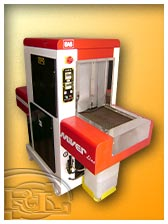
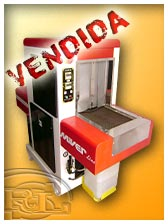
Renamed: SW-7129 table images. Minor tweaks. Sold: LAUR-60, BDF HS-30

Changed region(s): [[0.0, 0.0, 0.8036, 0.4375]]

diff --git a/maquinas/coser/maqNu_maquina-coser-de-brazo_SEWMAQ_SW-7129.htm b/maquinas/coser/maqNu_maquina-coser-de-brazo_SEWMAQ_SW-7129.htm
@@ -186,14 +186,14 @@ counter++;
           <th colspan="4" bgcolor="#FFFFFF"><h4>DESCRIPCIÓN DE LA MÁQUINA</h4></th>
         </tr>
         <tr>
-       		<td colspan="4"><p><span class="boldText">RaLoS</span> dispone una máquina de coser de brazo <span class="boldText">SEWMAQ &quot;SW&#8209;7129&quot;</span> nueva, con volante frontal y motor controlado electronicamente para un un control más cómodo y eficaz, todo especialmente pensado para llevar a cabo cualquier tipo de arreglo  que pueda requerir el zapato.</p></td>
+       		<td colspan="4"><p><span class="boldText">RaLoS</span> dispone una máquina de coser de brazo <span class="boldText">SEWMAQ &quot;SW&#8209;7129&quot;</span> nueva, <span class="uText">ahora</span> con volante frontal, controlador de puntada, hueco en mesa (para cañas de bota, etc.) y motor controlado electronicamente para un control más cómodo y eficaz, todo especialmente pensado para llevar a cabo cualquier tipo de arreglo  que pueda requerir el zapato.</p></td>
         </tr>
         <tr bgcolor="#FFFFFF">
           <th colspan="4"><h4>CARACTERÍSTICAS TÉCNICAS</h4></th>
         </tr>
         <tr>
           <td width="50%" colspan="2"><span class="boldText">Conex. Eléctrica: </span>220 V (1Φ) - 50 Hz</td>
-          <td width="50%" colspan="2"><span class="boldText">Altura Máxima Permitida</span> 10,5 mm</td>
+          <td width="50%" colspan="2"><span class="boldText">Altura Máxima Permitida:</span> 10,5 mm</td>
         </tr>
         <tr>
           <td width="50%" colspan="2"><span class="boldText">Potencia Instalada:</span> 0,25 kW (Aprox.)</td>
@@ -212,12 +212,12 @@ counter++;
         	<td width="100%" colspan="4">
             <table width="100%" border="0" cellspacing="4" style="border:none" summary="SEWMAQ SW-7129 (Información Detallada)"><caption></caption>
               <tr>
-          			<td align="center" valign="middle"><img src="maqNu_maquina-coser-de-brazo_SEWMAQ_SW-7129_5-1.png" /></td>
-          			<td align="center" valign="middle"><img src="maqNu_maquina-coser-de-brazo_SEWMAQ_SW-7129_5-2.png" /></td>
-          			<td align="center" valign="middle"><img src="maqNu_maquina-coser-de-brazo_SEWMAQ_SW-7129_5-3.png" /></td>
-          			<td align="center" valign="middle"><img src="maqNu_maquina-coser-de-brazo_SEWMAQ_SW-7129_5-4.png" /></td>
-          			<td align="center" valign="middle"><img src="maqNu_maquina-coser-de-brazo_SEWMAQ_SW-7129_5-5.png" /></td>
-          			<td align="center" valign="middle"><img src="maqNu_maquina-coser-de-brazo_SEWMAQ_SW-7129_5-6.png" /></td>
+          			<td align="center" valign="middle"><img src="maqNu_maquina-coser-de-brazo_SEWMAQ_SW-7129_a1.png" /></td>
+          			<td align="center" valign="middle"><img src="maqNu_maquina-coser-de-brazo_SEWMAQ_SW-7129_a2.png" /></td>
+          			<td align="center" valign="middle"><img src="maqNu_maquina-coser-de-brazo_SEWMAQ_SW-7129_a3.png" /></td>
+          			<td align="center" valign="middle"><img src="maqNu_maquina-coser-de-brazo_SEWMAQ_SW-7129_a4.png" /></td>
+          			<td align="center" valign="middle"><img src="maqNu_maquina-coser-de-brazo_SEWMAQ_SW-7129_a5.png" /></td>
+          			<td align="center" valign="middle"><img src="maqNu_maquina-coser-de-brazo_SEWMAQ_SW-7129_a6.png" /></td>
               </tr>
               <tr height="32">
           			<td align="center" valign="middle"><span class="boldText">x1</span></td>
@@ -225,7 +225,7 @@ counter++;
           			<td align="center" valign="middle"><span class="boldText">DPx17:14</span></td>
           			<td align="center" valign="middle"><span class="boldText">10,5 mm</span></td>
           			<td align="center" valign="middle"><span class="boldText">7 mm</span></td>
-          			<td align="center" valign="middle"><img src="maqNu_maquina-coser-de-brazo_SEWMAQ_SW-7129_5-6a.png" style="width:28px; height:28px; min-width: 28px; min-height: 28px;" /></td>
+          			<td align="center" valign="middle"><img src="maqNu_maquina-coser-de-brazo_SEWMAQ_SW-7129_a6a.png" style="width:28px; height:28px; min-width: 28px; min-height: 28px;" /></td>
               </tr>
             </table>
           </td>
@@ -235,7 +235,7 @@ counter++;
           <th colspan="4"><h4>CARACTERÍSTICAS DE TRABAJO</h4></th>
         </tr>
 				<tr>
-       		<td colspan="4" align="center"><p>Máquina de coser para reparación de calzado de base cilíndrica, de accionamiento a pedal y bobina normal. La <span class="boldText">SW-7129</span> Puede coser materiales extra gruesos (cuero, caucho, plástico, lona), sobre por ejemplo: zapatos, botas, bolsos, guantes o cualquier material cilíndrico, y es adecuada tanto para industrias de fabricación de zapatos como para zapateros independientes.</p></td>
+       		<td colspan="4" align="center"><p>Máquina de coser para reparación de calzado de base cilíndrica, accionamiento a pedal y bobina normal. La <span class="boldText">SW-7129</span> puede coser materiales extra gruesos (cuero, caucho, plástico, lona), sobre por ejemplo: zapatos, botas, bolsos, guantes o cualquier material cilíndrico, y es adecuada tanto para industrias de fabricación de zapatos como para zapateros independientes.</p></td>
         </tr>
 
         <tr id="rowInfoHead">

diff --git a/maquinas/moldear/maqUs_moldear-palas-de-bota_TRAP_T-30-B.htm b/maquinas/moldear/maqUs_moldear-palas-de-bota_TRAP_T-30-B.htm
@@ -128,7 +128,7 @@ counter++;
           <th colspan="4" bgcolor="#FFFFFF"><h4>DESCRIPCIÓN DE LA MÁQUINA</h4></th>
         </tr>
         <tr>
-       		<td colspan="4"><p><span class="boldText">RaLoS</span> <span class="lThrought">dispone</span> de una máquina de moldear palas de bota <span class="boldText">&quot;TRAP T-30-B&quot;</span> con sistema neumático, de segunda mano, totalmente restaurada y lista para trabajar.</p>
+       		<td colspan="4"><p><span class="boldText">RaLoS</span> dispone de una máquina de moldear palas de bota <span class="boldText">&quot;TRAP T-30-B&quot;</span> con sistema neumático, de segunda mano, totalmente restaurada y lista para trabajar.</p>
 <p>Esta máquina esta diseñada especialmente para resolver los problemas de quiebre, tanto en botas como en mocasines, evitando el clásico corte, de otra forma necesario, para acoplar el corte a la horma.</p></td>
         </tr>
         <tr bgcolor="#FFFFFF">
@@ -143,7 +143,7 @@ counter++;
           <td width="50%" colspan="2"><span class="boldText">Peso (Neto):</span> N/D</td>
         </tr>
         <tr>
-          <td width="50%" colspan="2"><span class="boldText">Presión de Trabajo : </span>6/8 Kg/cm<sup>2</sup></td>
+          <td width="50%" colspan="2"><span class="boldText">Presión de Trabajo: </span>6/8 Kg/cm<sup>2</sup></td>
           <td width="50%" colspan="2"><span class="boldText">Producción (Aprox.):</span>  1.000/1.500 pares/8h</td>
         </tr>
         <tr bgcolor="#FFFFFF">
@@ -161,7 +161,7 @@ counter++;
         </tr>
 
         <tr id="rowInfo">
-          <td width="25%" class="boldText">No disponible</td>
+          <td width="25%" class="boldText"><a href="http://www.ralosmaquinaria.com/mainFrameContact.htm?Disponibilidad+Maquina+para+Moldear+Palas+de+Bota&amp;'TRAP+T-30-B'&amp;(OCASION)#formContainer" title="Ir al Formulario de Consulta" target="_self" class="boldText">Consultar</a></td>
           <td width="50%" colspan="2">Restaurada</td>
         <!--<td width="50%" colspan="2">Máquina revisada en nuestro taller.</td>-->
           <td width="25%"><a href="http://www.ralosmaquinaria.com/mainFrameContact.htm?Maquina+para+Moldear+Palas+de+Bota&'TRAP+T-30-B'&(OCASION)#formContainer" title="Ir al Formulario de Consulta" target="_self" class="boldText">Consultar</a></td>

diff --git a/index.htm b/index.htm
@@ -455,15 +455,6 @@ div .mainFooterContent {
         </li>
 
         <li>
-					<div class="liContainer"><a href="maquinas/hornos/maqUs_hornoAcondicionador_BDF_HS-30.htm" target="mainFrame" title="Ver Horno Acondicionador BDF &quot;HS-30&quot;">
-            <img class="outerImg" alt="" src="images/_mac_vOuterFrame_mTn.png"/>
-            <img class="vInnerImg" alt="Horno Acondicionador BDF &quot;HS-30&quot;" src="maquinas/hornos/maqUs_hornoAcondicionador_BDF_HS-30_01mTn.jpg"/>
-            <img class="spanPosFix" alt="" src="images/_mac_vOuterFrameFix_mTn.gif"/>
-            <span>Horno Acondicionador BDF &quot;HS&#8209;30&quot;</span></a>
-					</div>
-				</li>
-
-        <li>
 					<div class="liContainer"><a href="maquinas/hornos/maqUs_horno-acondicionador-calzado_EAS_60-F.htm" target="mainFrame" title="Ver Horno Acondicionador EAS &quot;60-F&quot;">
             <img class="outerImg" alt="" src="images/_mac_hOuterFrame_mTn.png"/>
             <img class="hInnerImg" alt="Horno Acondicionador EAS &quot;60-F&quot;" src="maquinas/hornos/maqUs_horno-acondicionador-calzado_EAS_60-F_1m-h.jpg"/>
@@ -478,15 +469,6 @@ div .mainFooterContent {
             <img class="hInnerImg" alt="Horno Acondicionador EAS &quot;HC-4C&quot;" src="maquinas/hornos/maqUs_horno-acondicionador-calzado_EAS_HC-4C_01mTn.jpg"/>
             <img class="spanPosFix" alt="" src="images/_mac_hOuterFrameFix_mTn.gif"/>
             <span>Horno Acondicionador EAS &quot;HC&#8209;4C&quot;</span></a>
-					</div>
-				</li>
-
-        <li>
-					<div class="liContainer"><a href="maquinas/hornos/maqUs_horno-acondicionador-calzado_EAS_LAUR-60.htm" target="mainFrame" title="Ver Horno Acondicionador EAS &quot;LAUR-60&quot;">
-            <img class="outerImg" alt="" src="images/_mac_vOuterFrame_mTn.png"/>
-            <img class="vInnerImg" alt="Horno Acondicionador EAS &quot;LAUR-60&quot;" src="maquinas/hornos/maqUs_horno-acondicionador-calzado_EAS_LAUR-60_1m-v.jpg"/>
-            <img class="spanPosFix" alt="" src="images/_mac_vOuterFrameFix_mTn.gif"/>
-            <span>Horno Acondicionador EAS &quot;LAUR&#8209;60&quot;</span></a>
 					</div>
 				</li>
 

diff --git a/maquinas/hornos/maqUs_horno-acondicionador-calzado_EAS_HC-4C.htm b/maquinas/hornos/maqUs_horno-acondicionador-calzado_EAS_HC-4C.htm
@@ -154,11 +154,11 @@ counter++;
         </tr>
         <tr>
           <td width="50%" colspan="2"><span class="boldText">Conex. Eléctrica: </span>380 V - 50/60 Hz</td>
-          <td width="50%" colspan="2"><span class="boldText">Consumo Agua (máx.):</span> ... l/h</td>
+          <td width="50%" colspan="2"><span class="boldText">Producción (Aprox.):</span> 1.200 pares/8h</td>
         </tr>
         <tr>
           <td width="50%" colspan="2"><span class="boldText">Potencia Instalada:</span> ... kW</td>
-          <td width="50%" colspan="2"><span class="boldText">Dimens. (An./Al./Pr.):</span> ... x ... x ... cm</td>
+          <td width="50%" colspan="2"><span class="boldText">Dimens. (An./Al./Pr.):</span> N/D x N/D x 290 cm</td>
         </tr>
         <tr>
           <td width="50%" colspan="2"><span class="boldText">Consumo Medio:</span> ... kWh</td>
@@ -179,7 +179,7 @@ counter++;
 
         <tr id="rowInfo">
           <td width="25%" class="boldText">Disponible</td>
-          <td width="50%" colspan="2">En Condiciones de Trabajo</td>
+          <td width="50%" colspan="2">Restaurado</td>
         <!--<td width="50%" colspan="2">Máquina revisada en nuestro taller.</td>-->
           <td width="25%"><a href="http://www.ralosmaquinaria.com/mainFrameContact.htm?Horno+Acondicionador+de+Calzado&'EAS+HC-4C'&(OCASION)#formContainer" title="Ir al Formulario de Consulta" target="_self" class="boldText">Consultar</a></td>
         </tr>

diff --git a/maquinas/hornos/maqUs_horno-acondicionador-calzado_EAS_LAUR-60.htm b/maquinas/hornos/maqUs_horno-acondicionador-calzado_EAS_LAUR-60.htm
@@ -88,7 +88,7 @@ counter++;
   	<!--<div id="mainLogoBg"></div>-->
   	<div class="divider1"></div>
 
-		<h1 style="text-decoration: none; margin-bottom: 0px">RaLoS, MAQUINARIA USADA: Horno Acondicionador de Calzado EAS &quot;LAUR&#8209;60&quot;</h1>
+		<h1 style="text-decoration: none; margin-bottom: 0px">RaLoS, MAQUINARIA USADA: Horno Acondicionador de Calzado EAS &quot;LAUR&#8209;60&quot; (VENDIDO)</h1>
   <div class="divider2"></div>
     <div id="productContainer">
 			<ul>       
@@ -169,8 +169,8 @@ counter++;
         </tr>
 
         <tr id="rowInfo">
-          <td width="25%" class="boldText">Disponible</td>
-          <td width="50%" colspan="2">En Condiciones de Trabajo</td>
+          <td width="25%" class="boldText">No disponible</td>
+          <td width="50%" colspan="2">En condiciones de trabajo</td>
         <!--<td width="50%" colspan="2">Máquina revisada en nuestro taller.</td>-->
           <td width="25%"><a href="http://www.ralosmaquinaria.com/mainFrameContact.htm?Horno+Acondicionador+de+Calzado&'EAS+LAUR-60'&(OCASION)#formContainer" title="Ir al Formulario de Consulta" target="_self" class="boldText">Consultar</a></td>
         </tr>

diff --git a/maquinas/lijar-pulir/maqUs_maquinaDePulir_DISA-94.htm b/maquinas/lijar-pulir/maqUs_maquinaDePulir_DISA-94.htm
@@ -136,7 +136,7 @@ counter++;
         </tr>
         <tr>
           <td width="50%" colspan="2"><span class="boldText">Conex. Eléctrica: </span>380 V (3&#934;) - 50/60 Hz</td>
-          <td width="50%" colspan="2"><span class="boldText">Eje Útil (largo de cada lado):</span> 360 mm</td>
+          <td width="50%" colspan="2"><span class="boldText">Eje Útil (largo de cada lado):</span> 320 mm</td>
         </tr>
         <tr>
           <td width="50%" colspan="2"><span class="boldText">Potencia Instalada:</span> N/D</td>
@@ -161,7 +161,7 @@ counter++;
 
         <tr id="rowInfo">
           <td width="25%" class="boldText">Disponible</td>
-          <td width="50%" colspan="2">Revisada y en perfectas condiciones de trabajo</td>
+          <td width="50%" colspan="2">Restaurada</td>
         <!--<td width="50%" colspan="2">Máquina revisada en nuestro taller.</td>-->
           <td width="25%"><a href="http://www.ralosmaquinaria.com/mainFrameContact.htm?Maquina+de+Pulir&'DISA-94'&(OCASION)#formContainer" title="Ir al Formulario de Consulta" target="_self" class="boldText">Consultar</a></td>
         </tr>

diff --git a/maquinas/moldear/maqUs_moldear-palas_TRAP_Nova-30.htm b/maquinas/moldear/maqUs_moldear-palas_TRAP_Nova-30.htm
@@ -160,7 +160,7 @@ counter++;
           <td width="50%" colspan="2"><span class="boldText">Peso (Neto):</span> N/D</td>
         </tr>
         <tr>
-          <td width="50%" colspan="2"><span class="boldText">Presión de Trabajo : </span>6/8 Kg/cm<sup>2</sup></td>
+          <td width="50%" colspan="2"><span class="boldText">Presión de Trabajo: </span>6/8 Kg/cm<sup>2</sup></td>
           <td width="50%" colspan="2"><span class="boldText">Producción (Aprox.):</span> 800/1.000 pares/8h</td>
         </tr>
         <tr bgcolor="#FFFFFF">
